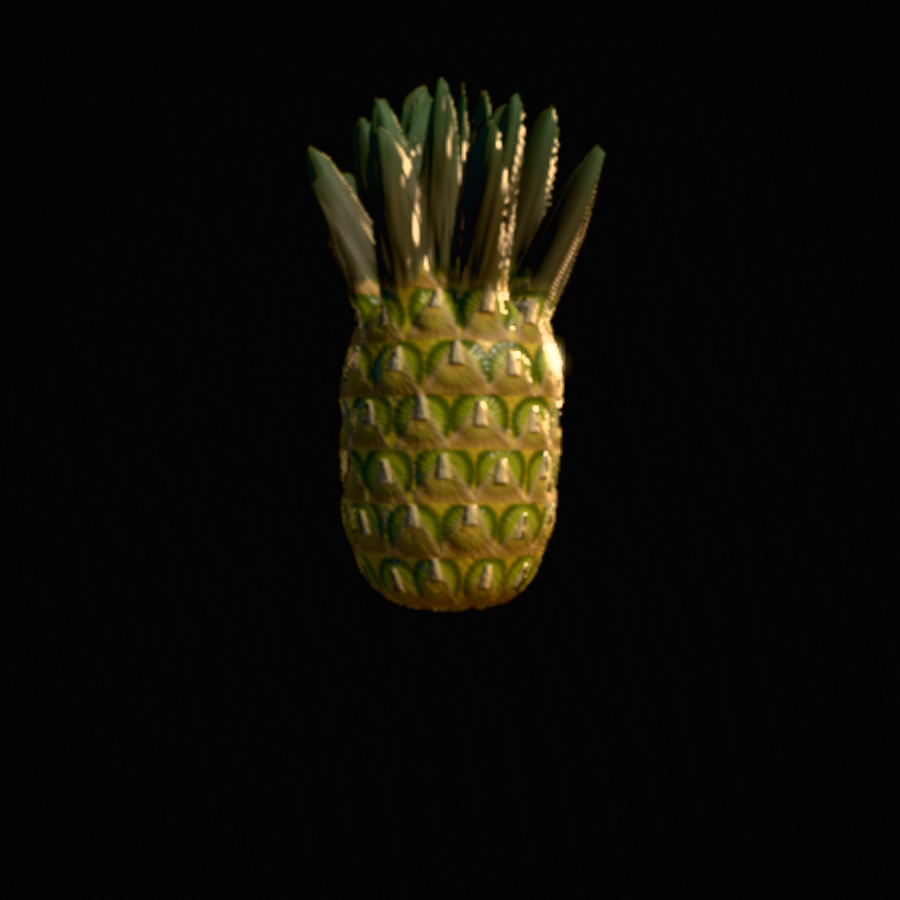
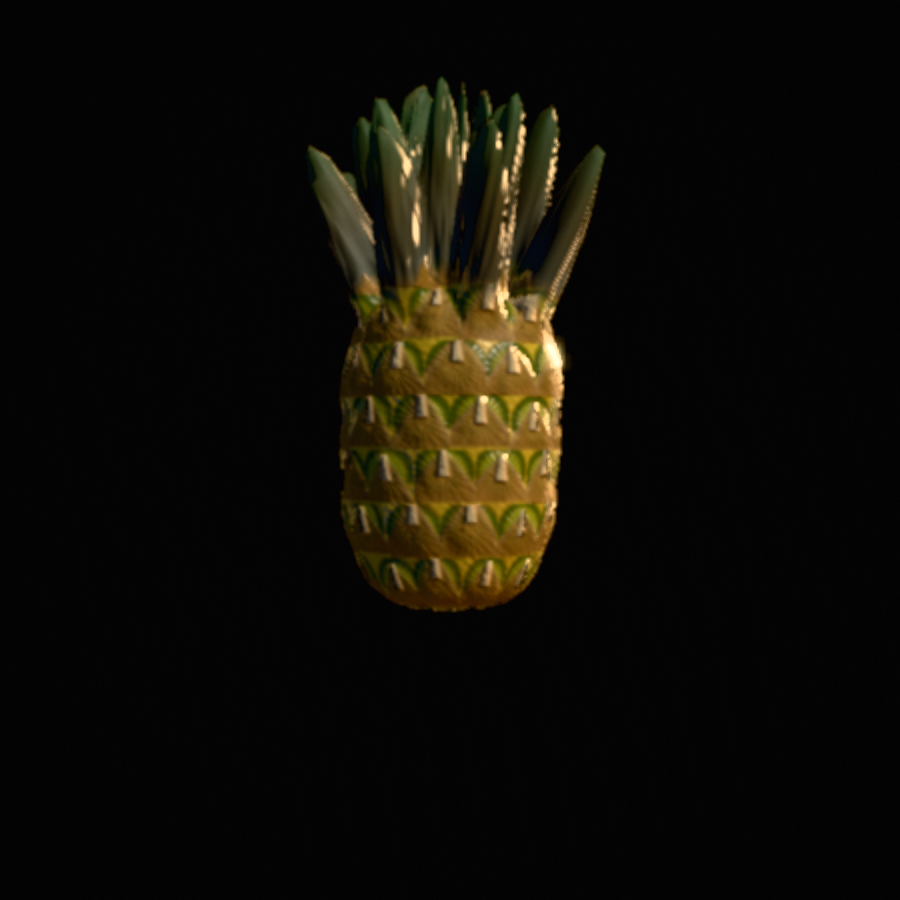
r47f: pineapple — a wide veined tan sheath over each eye's lower third, scuffs, crown bloom
My own read of the r47e side-by-side: the sheath was a pale wedge where
the reference's is a broad tan triangle darker than the gold and heavily
veined, covering the lower third of its own eye so the ring reads as an
upper arc; the eye interiors were too bright; the flats too clean; the
crown missing its waxy rosette base. Now: the sheath is wide (bractW
0.62, tip at 0.44) and opaque over the eye (0.88), tan (0.26, 0.165,
0.07) with ridge veins (sheathVein 0.5); eye interior darker and greener
to a small gold centre (eyePow 4.5); sparse brown scuffs on the flats
(blemMix 0.35); the pineapple's leaves get a grey-white bloom toward the
root (leafBloom 0.55, a skinMaterial option). Nine candidates over three
batches. drawprobe/fruitviews clean; corpus shots refreshed.

Changed region(s): [[0.3733, 0.28, 0.6533, 0.6533], [0.4044, 0.3111, 0.4356, 0.3422]]

diff --git a/src/fruit/species.js b/src/fruit/species.js
@@ -2213,7 +2213,12 @@ function skinMaterial(sp, body, o = {}) {
     const woodC = mix(A_WUD, A_WTIP, a.sh.mul(a.sh))
       .mul(ringN(f.lon, 17.0, a.y.mul(9.0)).mul(0.22).add(1.0))
       .toVar();
-    alb.assign(mix(alb, leafC.mul(tintV), a.leafy));
+    // r47e `o.leafBloom`: a waxy grey-white bloom over the lower blade, as
+    // on a pineapple crown's rosette — strongest at the root, gone by mid-blade
+    const bloomed = o.leafBloom
+      ? mix(leafC.mul(tintV), fromKeyLit(0.1100, 0.1250, 0.1050), ss(0.55, 0.05, a.bh).mul(o.leafBloom))
+      : leafC.mul(tintV);
+    alb.assign(mix(alb, bloomed, a.leafy));
     alb.assign(mix(alb, woodC, a.wood));
     return alb;
   })();
@@ -3859,15 +3864,15 @@ def({
 // them at runtime (window.__zsPine.set(name, value) in the harness) and the
 // shipped defaults below are what that loop settled on. Colours are linear.
 const PINE_DEFAULTS = {
-  rows: 2.30, skew: 0.42, eyeY: 0.02, eyeR: 0.52, eyeAspect: 0.95, tipY: 0.36, bractW: 0.50,
-  bractCurve: 1.00, spread: 0.50, grain: 0.12, veinMix: 0.25, eyeMix: 0.95, eyeGrad: 1.00,
-  eyePow: 3.50, rimMix: 0.95, rimLow: -0.55, rimW: 0.22, bractMix: 0.85, bractOverEye: 0.55,
-  soft: 3.00, jit: 0.80, lipMix: 0.40, lipH: 0.15, roughGold: 0.36, roughEye: 0.32,
-  roughBract: 0.45, eyeH: 0.80, bractH: 0.25, thornH: 1.80, thornW: 0.07, thornLen: 0.46,
-  gold: [0.4100, 0.3100, 0.0700], goldGreen: [0.3400, 0.3000, 0.0600],
-  vein: [0.2400, 0.1200, 0.0400], eyeGreen: [0.0800, 0.1900, 0.0250],
-  eyeYellow: [0.4200, 0.3300, 0.0800], rim: [0.0300, 0.0650, 0.0080],
-  tan: [0.2800, 0.1800, 0.0800], thorn: [0.3900, 0.3300, 0.2300],
+  rows: 2.30, skew: 0.42, sheathVein: 0.50, blemMix: 0.35, eyeY: 0.02, eyeR: 0.52,
+  eyeAspect: 0.95, tipY: 0.44, bractW: 0.62, bractCurve: 0.85, spread: 0.50, grain: 0.12,
+  veinMix: 0.25, eyeMix: 0.95, eyeGrad: 1.00, eyePow: 4.50, rimMix: 0.95, rimLow: -0.30,
+  rimW: 0.22, bractMix: 0.95, bractOverEye: 0.88, soft: 3.00, jit: 0.80, lipMix: 0.20, lipH: 0.15,
+  roughGold: 0.36, roughEye: 0.40, roughBract: 0.45, eyeH: 0.80, bractH: 0.25, thornH: 1.80,
+  thornW: 0.06, thornLen: 0.50, gold: [0.4100, 0.3100, 0.0700],
+  goldGreen: [0.3400, 0.3000, 0.0600], vein: [0.2400, 0.1200, 0.0400],
+  eyeGreen: [0.0700, 0.1600, 0.0200], eyeYellow: [0.4200, 0.3300, 0.0800],
+  rim: [0.0280, 0.0600, 0.0070], tan: [0.2600, 0.1650, 0.0700], thorn: [0.3900, 0.3300, 0.2300],
 };
 // fruitlets around the barrel — a JS constant (cellPt's wrap), not a uniform
 const PINE_AROUND = 12;
@@ -3978,11 +3983,16 @@ def({
         const alb = mix(gold, eyeC, e.eye.mul(PINE.eyeMix)).toVar();
         alb.assign(mix(alb, PINE.rim, e.rim.mul(PINE.rimMix)));
         // the sheath over the top: tan, drier and lighter at the lip and thorn
-        const tan = PINE.tan.mul(grain(f, u, 18.0).mul(0.18).add(0.91)).toVar();
+        // dry, fibrous: fine ridge veins run up the sheath, darker brown
+        const tan = PINE.tan.mul(grain(f, u, 18.0).mul(0.18).add(0.91))
+          .mul(rdg2(vec2(f.P.x.mul(30.0).add(f.P.z.mul(30.0)), f.P.y.mul(9.0)), 2).mul(PINE.sheathVein).oneMinus()).toVar();
         // the sheath is opaque where it lies over the eye (only the eye's upper
         // crescent shows, as in the photo) and subtler over the gold
         alb.assign(mix(alb, tan, e.bract.mul(mix(PINE.bractMix, PINE.bractOverEye, e.eye))));
         alb.assign(mix(alb, PINE.thorn, max(e.thorn, e.lip.mul(PINE.lipMix)).mul(0.9)));
+        // scuffs and blemishes: sparse low-frequency brown patches on the flats
+        const blem = ss(0.55, 0.85, fbm2(vec2(f.P.x.mul(2.2).add(f.P.z.mul(1.7)), f.P.y.mul(2.6)), 2, u.detail).mul(0.5).add(0.5)).mul(e.eye.oneMinus()).toVar();
+        alb.assign(mix(alb, PINE.vein.mul(0.8), blem.mul(PINE.blemMix)));
         return mix(mix(gold, PINE.tan, 0.35), alb, e.fade);
       },
       rough: (f) => { const e = eyes(f); return mix(PINE.roughGold, PINE.roughEye, e.eye).add(e.bract.mul(PINE.roughBract)); },
@@ -3996,7 +4006,7 @@ def({
       bump: 0.0220,
       // the crown: brighter grey-green, calmer ribs (the 26-per-turn rib ran
       // as striping on the device)
-      leafTint: [1.30, 1.28, 1.22], rib: 0.6,
+      leafTint: [1.30, 1.28, 1.22], rib: 0.6, leafBloom: 0.55,
       mat: {
         roughness: 0.58, sheen: 0.30, sheenColor: C('#c8a45a'), sheenRoughness: 0.6,
         clearcoat: 0.18, clearcoatRoughness: 0.5, specularIntensity: 0.5,
